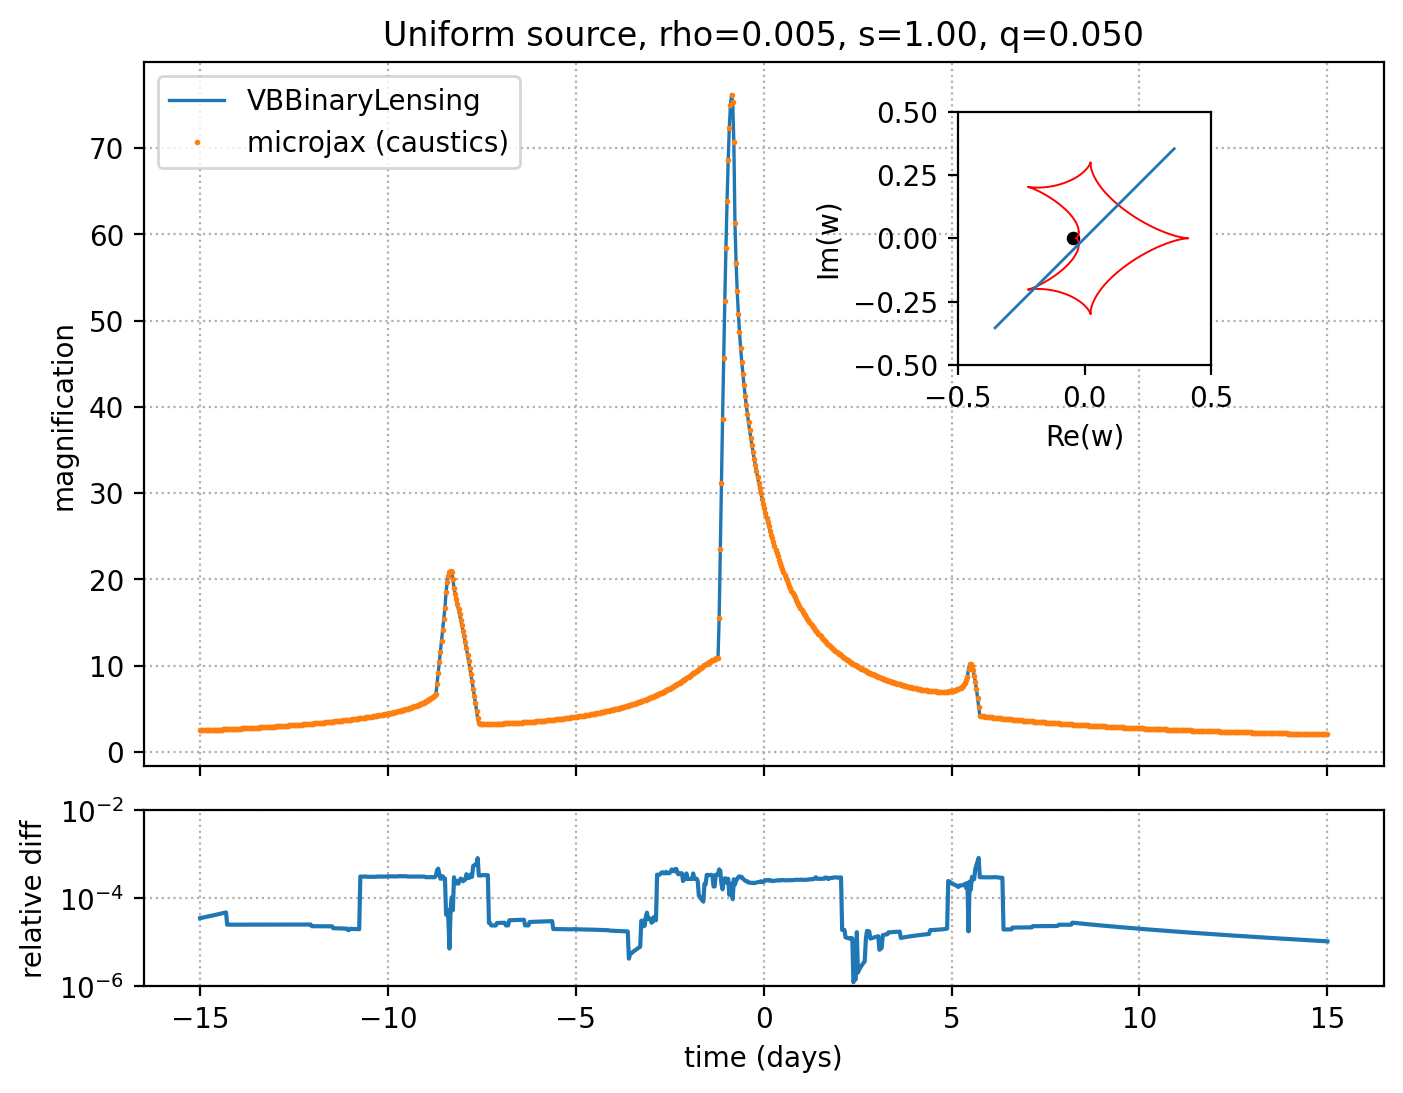
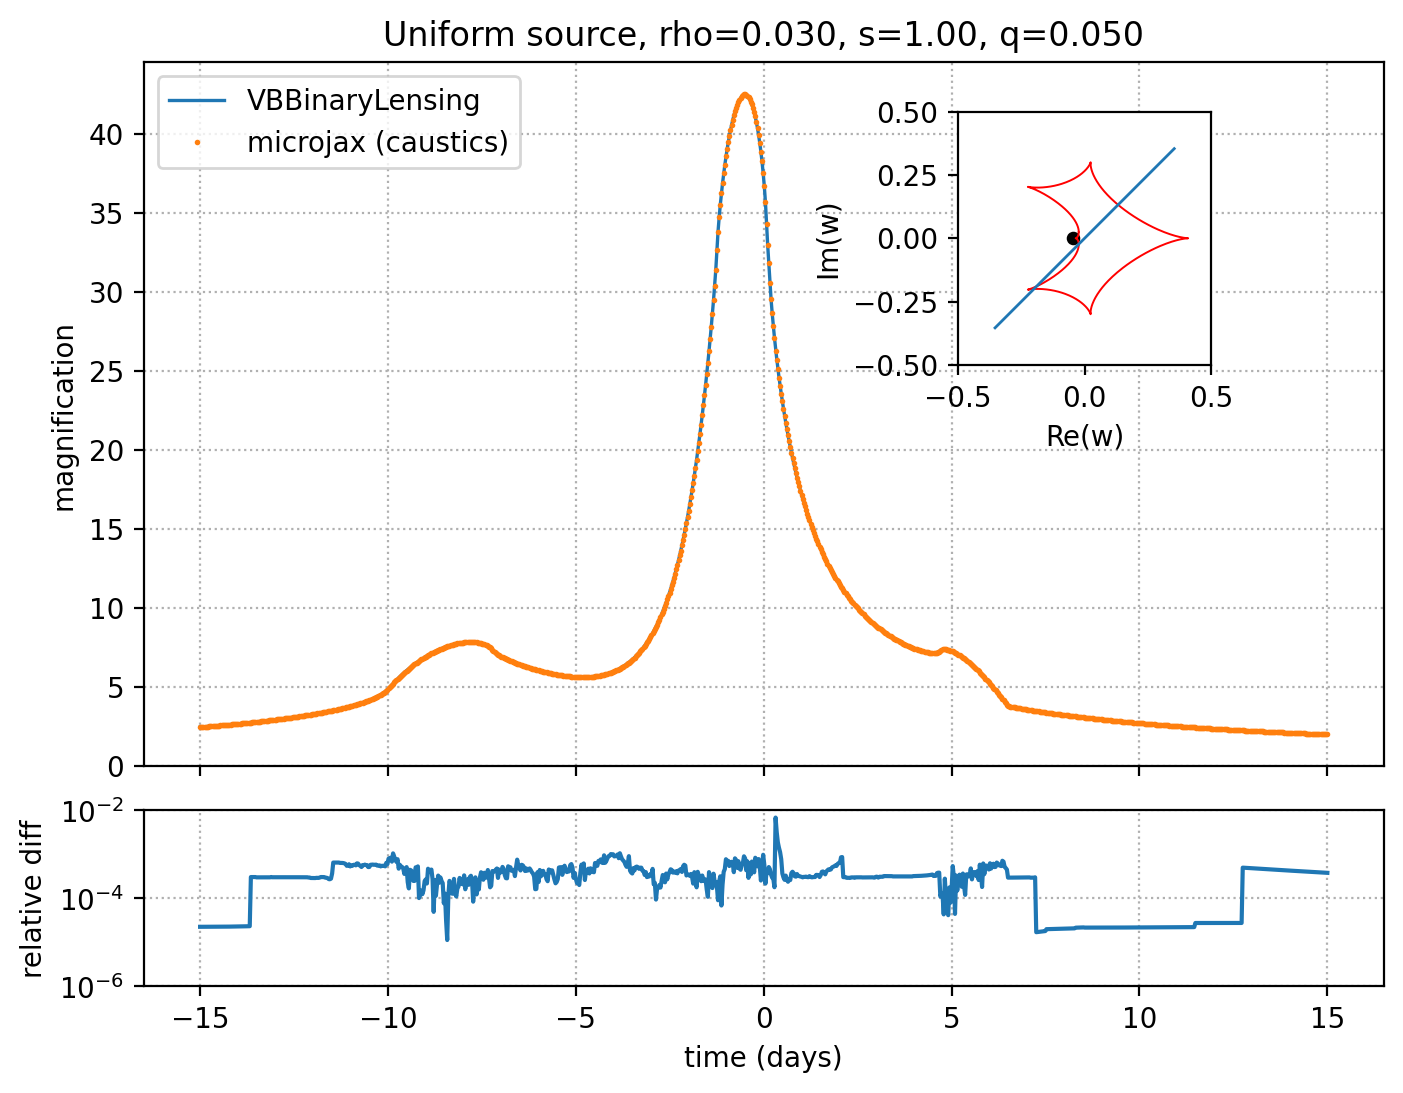
integrate parallax

diff --git a/src/microjax/caustics/error_estimator.py b/src/microjax/caustics/error_estimator.py
@@ -1,0 +1,123 @@
+# This file vendors pieces of the `microlux` error estimator so we can
+# drive adaptive sampling with a gradient-aware metric.
+# Original source: microlux 0.2.0 (MIT License) by Yinghao Ma & Jin Li.
+# SPDX-License-Identifier: MIT
+
+import jax
+import jax.numpy as jnp
+
+
+def dot_product(a, b):
+    return jnp.real(a) * jnp.real(b) + jnp.imag(a) * jnp.imag(b)
+
+
+def basic_partial(z, theta, rho, q, s, caustic_crossing):
+    """
+    Analytic derivatives of the binary-lens equation used by microlux.
+
+    Parameters
+    ----------
+    z : array_like
+        Image positions with shape ``(n_samples, n_images)``.
+    theta : array_like
+        Limb angles matching the first dimension of ``z``.
+    rho : float
+        Source radius (Einstein units).
+    q, s : float
+        Mass ratio and separation of the binary lens.
+    caustic_crossing : bool
+        If True, also compute the derivative of the parabolic correction term
+        (needed for the gradient error term ``e4``).
+
+    Returns
+    -------
+    tuple of array_like
+        ``(deXProde2X, de_z, de_deXPro_de2X)`` matching the shape of ``z``.
+    """
+    theta = theta if theta.ndim > 1 else theta[:, None]
+    z_c = jnp.conj(z)
+    parZetaConZ = 1 / (1 + q) * (1 / (z_c - s) ** 2 + q / z_c**2)
+    par2ConZetaZ = -2 / (1 + q) * (1 / (z - s) ** 3 + q / z**3)
+    de_zeta = 1j * rho * jnp.exp(1j * theta)
+    detJ = 1 - jnp.abs(parZetaConZ) ** 2
+    de_z = (de_zeta - parZetaConZ * jnp.conj(de_zeta)) / detJ
+    deXProde2X = (rho**2 + jnp.imag(de_z**2 * de_zeta * par2ConZetaZ)) / detJ
+
+    def get_de_deXPro_de2X(_):
+        de2_zeta = -rho * jnp.exp(1j * theta)
+        de2_zetaConj = -rho * jnp.exp(-1j * theta)
+        par3ConZetaZ = 6 / (1 + q) * (1 / (z - s) ** 4 + q / (z) ** 4)
+        de2_z = (
+            de2_zeta
+            - jnp.conj(par2ConZetaZ) * jnp.conj(de_z) ** 2
+            - parZetaConZ * (de2_zetaConj - par2ConZetaZ * de_z**2)
+        ) / detJ
+        return (
+            1
+            / detJ**2
+            * jnp.imag(
+                detJ
+                * (
+                    de2_zeta * par2ConZetaZ * de_z**2
+                    + de_zeta * par3ConZetaZ * de_z**3
+                    + de_zeta * par2ConZetaZ * 2 * de_z * de2_z
+                )
+                + (
+                    jnp.conj(par2ConZetaZ) * jnp.conj(de_z) * jnp.conj(parZetaConZ)
+                    + parZetaConZ * par2ConZetaZ * de_z
+                )
+                * de_zeta
+                * par2ConZetaZ
+                * de_z**2
+            )
+        )
+
+    de_deXPro_de2X = jax.lax.cond(
+        caustic_crossing, get_de_deXPro_de2X, lambda _: jnp.zeros_like(deXProde2X), None
+    )
+    return deXProde2X, de_z, de_deXPro_de2X
+
+
+def error_ordinary(deXProde2X, de_z, delta_theta, z, parity, de_deXPro_de2X):
+    """
+    Microlux Eq.18 error estimator for ordinary segments (no creation/destruction).
+
+    Parameters mirror microlux.error_estimator.error_ordinary.
+    Shapes:
+        - deXProde2X, de_z, z, parity: (n_samples, n_images)
+        - delta_theta: (n_samples-1,)
+    Returns
+    -------
+    tuple (e_tot, dAp) each with shape (n_samples-1, n_images)
+    """
+    delta_theta = delta_theta if delta_theta.ndim > 1 else delta_theta[:, None]
+    dAp_1 = 0.5 * (deXProde2X[:-1] + deXProde2X[1:]) * (delta_theta**2) / 12.0
+    delta_theta_wave = jnp.abs(z[:-1] - z[1:]) ** 2 / jnp.abs(dot_product(de_z[:-1], de_z[1:]))
+
+    dAp_v1 = dAp_1 * parity[:-1]
+    dAp_v2 = (
+        1
+        / 12
+        * (
+            (z.real[1:] - z.real[:-1]) * (de_z.imag[1:] - de_z.imag[:-1])
+            - (z.imag[1:] - z.imag[:-1]) * (de_z.real[1:] - de_z.real[:-1])
+        )
+        * delta_theta
+        * parity[:-1]
+    )
+    dAp = 0.5 * (dAp_v1 + dAp_v2)
+
+    e1 = 0.5 * jnp.abs(dAp_v1 - dAp_v2)
+    e2 = 1.5 * jnp.abs(dAp_1 * (delta_theta_wave - delta_theta**2))
+    e3 = 0.1 * jnp.abs(dAp) * delta_theta**2
+
+    de_dAp = (
+        (de_deXPro_de2X[:-1] - de_deXPro_de2X[1:])
+        * (delta_theta**3)
+        * parity[:-1]
+        / 24.0
+    )
+    e4 = 0.1 * jnp.abs(de_dAp)
+
+    e_tot = e1 + e2 + e3 + e4
+    return e_tot, dAp

diff --git a/src/microjax/caustics/extended_source/limb.py b/src/microjax/caustics/extended_source/limb.py
@@ -17,6 +17,7 @@ import jax.numpy as jnp
 from jax import jit, vmap, lax, random
 
 from ...utils import match_points
+from ..error_estimator import basic_partial, error_ordinary
 from ...point_source import (
     lens_eq_det_jac,
     _images_point_source,
@@ -69,6 +70,7 @@ def _permute_images(z, z_mask, z_parity):
         "nlenses",
         "npts",
         "niter",
+        "grad_refine",
     ),
 )
 def _images_of_source_limb(
@@ -77,6 +79,8 @@ def _images_of_source_limb(
     nlenses=2,
     npts=300,
     niter=10,
+    grad_refine=False,
+    grad_error_factor=1.0,
     **params,
 ):
     """Sample point-source images along the limb of a circular source.
@@ -152,8 +156,25 @@ def _images_of_source_limb(
             delta_z,
             jnp.zeros_like(delta_z.real),
         )
-        delta_z_max = jnp.max(delta_z, axis=0)
-        idcs_theta = jnp.argsort(delta_z_max)[::-1][:n]
+        delta_metric = jnp.max(delta_z, axis=0)
+
+        if grad_refine and (nlenses == 2):
+            # microlux-style gradient-aware error estimate (Eq. 18)
+            theta_delta = theta[1:] - theta[:-1]
+            z_samples = jnp.moveaxis(z, 0, 1)  # (n_samples, n_images)
+            parity = jnp.moveaxis(z_parity, 0, 1)
+            mask = jnp.moveaxis(z_mask, 0, 1)
+            deXProde2X, de_z, de_deXPro_de2X = basic_partial(
+                z_samples, theta, rho, params["q"], params["s"], True
+            )
+            e_tot, _ = error_ordinary(
+                deXProde2X, de_z, theta_delta, z_samples, parity, de_deXPro_de2X
+            )
+            e_tot = jnp.where(mask[:-1] & mask[1:], e_tot, 0.0)
+            grad_metric = jnp.sum(e_tot, axis=1)
+            delta_metric = delta_metric + grad_error_factor * grad_metric
+
+        idcs_theta = jnp.argsort(delta_metric)[::-1][:n]
 
         theta_new = 0.5 * (theta[idcs_theta] + theta[idcs_theta + 1])
         z_new, z_mask_new, z_parity_new = fn(theta_new, z[:, idcs_theta])
@@ -177,4 +198,4 @@ def _images_of_source_limb(
 
     z, z_mask, z_parity = _permute_images(z, z_mask, z_parity)
 
-    return z, z_mask, z_parity
+    return z, z_mask, z_parity, theta

diff --git a/src/microjax/caustics/extended_source/mag.py b/src/microjax/caustics/extended_source/mag.py
@@ -40,6 +40,7 @@ from .contours import _contours_from_closed_segments, _contours_from_open_segmen
         "npts_limb",
         "limb_darkening",
         "npts_ld",
+        "grad_refine",
     ),
 )
 def mag_extended_source(
@@ -50,6 +51,8 @@ def mag_extended_source(
     limb_darkening=False,
     u1=0.0,
     npts_ld=100,
+    grad_refine=True,
+    grad_error_factor=1.0,
     **params,
 ):
     """Compute the magnification of a finite-sized source for up to 3 lenses.
@@ -74,6 +77,13 @@ def mag_extended_source(
     npts_ld : int, optional
         Number of quadrature points for the Dominik (1998) P/Q integrals when
         limb darkening is enabled.
+    grad_refine : bool, optional
+        Enable microlux-style gradient-aware limb refinement (Eq. 18 in Ma+25).
+        Only active for binary lenses; falls back to distance-based refinement
+        otherwise.
+    grad_error_factor : float, optional
+        Relative weight of the gradient error metric when choosing new limb
+        samples. Larger values bias refinement toward gradient stability.
     **params : dict
         Additional lens parameters (e.g. ``s``, ``q``, ``q3``) forwarded to the
         point-source solver.
@@ -89,7 +99,7 @@ def mag_extended_source(
         s, q = params["s"], params["q"]
         a = 0.5 * s
         e1 = q / (1.0 + q)
-        _params = {"a": a, "e1": e1}
+        _params = {"a": a, "e1": e1, "s": s, "q": q}
         x_cm = a * (1 - q) / (1 + q)
         w0 -= x_cm
     elif nlenses == 3:
@@ -104,12 +114,14 @@ def mag_extended_source(
     else:
         raise ValueError("`nlenses` has to be set to be <= 3.")
 
-    z, z_mask, z_parity = _images_of_source_limb(
+    z, z_mask, z_parity, theta = _images_of_source_limb(
         w0,
         rho,
         nlenses=nlenses,
         npts=npts_limb,
         **_params,
+        grad_refine=grad_refine,
+        grad_error_factor=grad_error_factor,
     )
 
     if limb_darkening:

diff --git a/src/microjax/fastlens/mag_fft_jax.py b/src/microjax/fastlens/mag_fft_jax.py
@@ -220,3 +220,14 @@ class fspl_log(fspl):
     def A0(self, rho):
         # TODO: implement if/when needed
         raise NotImplementedError
+
+
+# ---------------------------------------------------------------------------
+# Backward-compatibility aliases
+# ---------------------------------------------------------------------------
+# Older CPU code exposes ``magnification_disk`` in ``fastlens.mag_fft``.  Some
+# downstream projects (e.g., jacscanomaly) still import that name from the JAX
+# module.  The fspl_disk class is API compatible (constructor signature and
+# ``A(u, rho)`` method), so we expose a lightweight alias here to avoid breaking
+# those consumers.
+magnification_disk = fspl_disk

diff --git a/example/contour_integrating/compare_vbbl.py b/example/contour_integrating/compare_vbbl.py
@@ -28,7 +28,7 @@ alpha = jnp.deg2rad(45.0)
 t_E = 30.0
 t_0 = 0.0
 u_0 = 0.0
-rho = 0.005
+rho = 0.03
 nlenses = 2
 
 a = 0.5 * s
@@ -136,4 +136,4 @@ ax_in.scatter((1.0 / (1 + q)) * s, 0.0, c="k", s=15)
 ax_in.set(xlabel="Re(w)", ylabel="Im(w)", xlim=(-0.5, 0.5), ylim=(-0.5, 0.5))
 fig.savefig("example/contour_integrating/compare_binary_uniform.png", dpi=200, bbox_inches="tight")
 print("output: example/contour_integrating/compare_binary_uniform.png")
-plt.show()
+plt.close()
